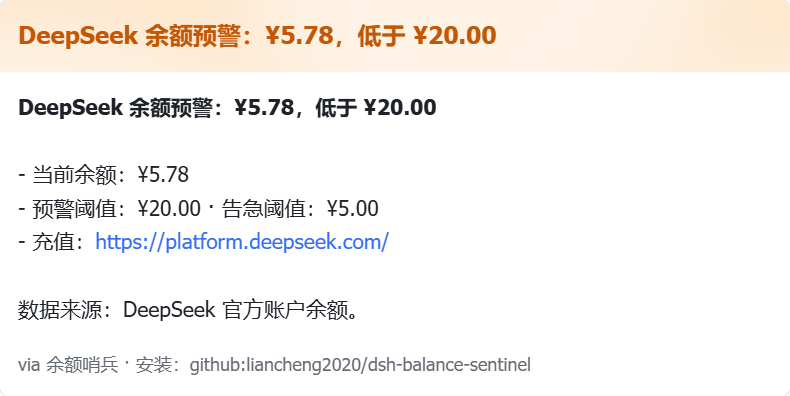
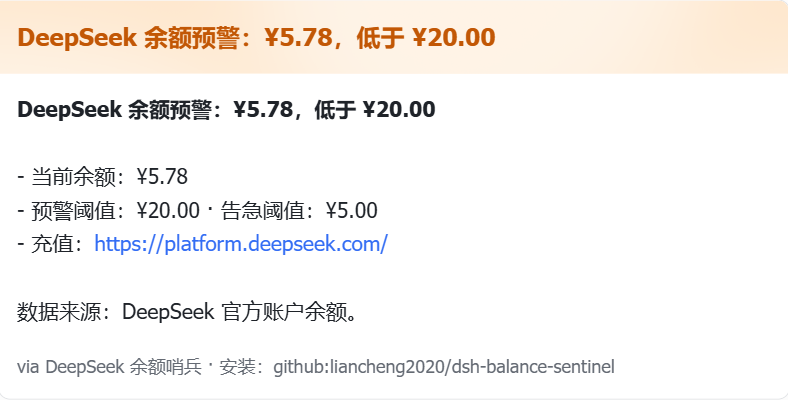
feat: 告警卡片与面板状态提示完善
签名补全 DeepSeek 前缀；状态提示改为顶部浮层，轮询不再覆盖编辑中的阈值草稿；自测补充对应用例，临时服务器关闭前断开 keep-alive 连接避免看门狗超时。

diff --git a/client.js b/client.js
@@ -7,11 +7,13 @@ window.__ModuleLoader__.load({
   factory(require) {
     const React = require('react')
     const h = React.createElement
-    const { useState, useEffect } = React
+    const { useState, useEffect, useRef } = React
 
     const LOCAL_API = 'http://127.0.0.1:17430'
     const REPO = 'https://github.com/liancheng2020/dsh-balance-sentinel'
     const TOP_UP = 'https://platform.deepseek.com/'
+    const RESULT_TTL = 3000 // confirmations fade; failures stay until the next action
+    const POLL_MS = 15000 // panel refresh; the bridge is loopback-only and cheap
     // Official "how to get a custom bot webhook" pages, shown next to the form.
     const BOT_DOC = {
       feishu: 'https://open.feishu.cn/document/client-docs/bot-v3/add-custom-bot',
@@ -186,14 +188,12 @@ window.__ModuleLoader__.load({
       btnPrimary: { fontSize: 12, padding: '6px 14px', borderRadius: 8, border: '1px solid rgba(91,140,255,0.45)', background: 'rgba(91,140,255,0.16)', color: T.brand, fontWeight: 600, cursor: 'pointer', display: 'inline-flex', alignItems: 'center', gap: 6, flex: 'none' },
       hero: { background: `linear-gradient(135deg, rgba(91,140,255,0.10), ${T.layer1} 60%)`, border: `1px solid ${T.border}`, borderRadius: 12, padding: '16px 18px', marginBottom: 14 },
       heroVal: { fontSize: 30, fontWeight: 700, lineHeight: 1.2 },
-      meta: { fontSize: 12, color: T.sub, margin: '2px 0' },
       metaDim: { fontSize: 11.5, color: T.tertiary, margin: '2px 0' },
       banner: { display: 'flex', alignItems: 'center', justifyContent: 'space-between', gap: 10, flexWrap: 'wrap', padding: '9px 12px', marginBottom: 14, borderRadius: 10, border: `1px solid ${T.borderSoft}`, borderLeft: `3px solid ${T.brand}`, background: 'rgba(91,140,255,0.10)' },
       bannerText: { fontSize: 12, color: T.sub },
       card: { background: T.layer1, border: `1px solid ${T.borderSoft}`, borderRadius: 10, padding: '12px 14px', marginBottom: 12 },
       row: { display: 'flex', justifyContent: 'space-between', alignItems: 'center', gap: 8, marginBottom: 6 },
       cardTitle: { fontWeight: 600, fontSize: 13, color: T.text, display: 'flex', alignItems: 'center', gap: 7 },
-      badge: (c) => ({ fontSize: 10.5, fontWeight: 600, padding: '2px 9px', borderRadius: 20, background: c, color: '#0e0e11', whiteSpace: 'nowrap', flex: 'none' }),
       badgeSoft: (c) => ({ fontSize: 10.5, fontWeight: 600, padding: '2px 9px', borderRadius: 20, color: c, border: `1px solid ${c}`, background: 'transparent', whiteSpace: 'nowrap', flex: 'none' }),
       field: { marginBottom: 9 },
       fieldLabel: { display: 'block', fontSize: 11.5, color: T.tertiary, marginBottom: 4 },
@@ -229,7 +229,9 @@ window.__ModuleLoader__.load({
     }
 
     const sym = (c) => (c === 'USD' ? '$' : '¥')
-    const levelColor = (l) => l === 'critical' ? T.error : l === 'warn' ? T.warn : T.success
+    // Critical uses a fixed red: some skins tint --dsw-alias-state-error-primary
+    // pink, which turned a real 告急 amount into a near-white number.
+    const levelColor = (l) => l === 'critical' ? '#ff4d4f' : l === 'warn' ? T.warn : T.success
     const fmtTime = (iso) => { if (!iso) return ''; try { return new Date(iso).toLocaleTimeString(LANG === 'en' ? 'en-US' : 'zh-CN', { hour12: false, timeZone: 'Asia/Shanghai' }) } catch { return String(iso) } }
 
     function SentinelPanel() {
@@ -241,7 +243,7 @@ window.__ModuleLoader__.load({
       const [editing, setEditing] = useState(false)
       const [form, setForm] = useState({ channel: 'wecom', url: '', secret: '' })
       const [busy, setBusy] = useState('')
-      const [result, setResult] = useState(null)
+      const [result, setResultState] = useState(null)
       const [offConfirm, setOffConfirm] = useState(false)
       const [warnDraft, setWarnDraft] = useState('')
       const [critDraft, setCritDraft] = useState('')
@@ -252,6 +254,18 @@ window.__ModuleLoader__.load({
         const id = setTimeout(() => setToast(null), 2000)
         return () => clearTimeout(id)
       }, [toast])
+
+      // Inline result: a confirmation ("saved") is noise a few seconds later, so it
+      // fades on its own; failures stay until the next action so they can be read.
+      // Every write goes through showResult, which also cancels a pending fade so a
+      // stale timer can never wipe a newer (possibly error) message.
+      const resultTimer = useRef(null)
+      useEffect(() => () => clearTimeout(resultTimer.current), [])
+      const showResult = (r) => {
+        clearTimeout(resultTimer.current)
+        resultTimer.current = r && r.ok ? setTimeout(() => setResultState(null), RESULT_TTL) : null
+        setResultState(r)
+      }
 
       useEffect(() => {
         const sheet = `
@@ -285,16 +299,29 @@ window.__ModuleLoader__.load({
         let cancelled = false
         let timer = null
         let attempt = 0
+        let seeded = false
+        let lastWarn = null
+        let lastCrit = null
         const load = async () => {
           try {
             const res = await fetch(LOCAL_API + '/status', { headers: { Accept: 'application/json' } })
             if (!res.ok) throw new Error('http ' + res.status)
             const j = await res.json()
             if (cancelled) return
+            attempt = 0
             setBridgeErr(''); setHost(j)
-            if (!j.configured) setEditing(true)
-            setWarnDraft(String(j.thresholds?.warn ?? 20))
-            setCritDraft(String(j.thresholds?.critical ?? 5))
+            // Auto-open the setup form once, not on every poll: a later refresh
+            // must not re-open it under a user who just closed it.
+            if (!seeded && !j.configured) setEditing(true)
+            seeded = true
+            const tw = String(j.thresholds?.warn ?? 20)
+            const tc = String(j.thresholds?.critical ?? 5)
+            // Only refresh a draft that still shows the value we last served, so a
+            // background poll never overwrites thresholds the user is editing.
+            setWarnDraft((prev) => (lastWarn === null || prev === lastWarn ? tw : prev))
+            setCritDraft((prev) => (lastCrit === null || prev === lastCrit ? tc : prev))
+            lastWarn = tw
+            lastCrit = tc
           } catch (e) {
             if (cancelled) return
             if (attempt < 2) { attempt++; timer = setTimeout(load, attempt * 500); return }
@@ -302,7 +329,21 @@ window.__ModuleLoader__.load({
           }
         }
         load()
-        return () => { cancelled = true; if (timer) clearTimeout(timer) }
+        // The panel is a live view: without this it keeps showing "pending" long
+        // after the monitor delivered the alert. Polls pause while hidden.
+        const tick = () => {
+          if (typeof document !== 'undefined' && document.visibilityState === 'hidden') return
+          load()
+        }
+        const id = setInterval(tick, POLL_MS)
+        const onVisible = () => { if (document.visibilityState !== 'hidden') load() }
+        if (typeof document !== 'undefined' && document.addEventListener) document.addEventListener('visibilitychange', onVisible)
+        return () => {
+          cancelled = true
+          if (timer) clearTimeout(timer)
+          clearInterval(id)
+          if (typeof document !== 'undefined' && document.removeEventListener) document.removeEventListener('visibilitychange', onVisible)
+        }
       }, [nonce, retry])
 
       const copyText = (text) => new Promise((resolve) => {
@@ -334,69 +375,73 @@ window.__ModuleLoader__.load({
       const refreshSoon = (ms = 400) => setTimeout(() => setNonce((n) => n + 1), ms)
 
       const testPush = async () => {
-        setBusy('test'); setResult(null)
+        setBusy('test'); showResult(null)
         try {
           const j = await post('/test-push')
-          setResult(j.ok
+          showResult(j.ok
             ? { ok: true, message: t('push.testOk', { c: j.channel || '', n: j.chunks || 1 }) }
             : { ok: false, message: j.message || j.error || '', hint: j.hint || '' })
-        } catch (e) { setResult({ ok: false, message: String(e?.message || e) }) }
+        } catch (e) { showResult({ ok: false, message: String(e?.message || e) }) }
         setBusy('')
       }
 
       const saveWebhook = async (thenTest) => {
-        setBusy('save'); setResult(null)
+        setBusy('save'); showResult(null)
         try {
           const j = await post('/webhook', form)
-          if (!j.ok) { setResult({ ok: false, message: j.message || '' }); return }
+          if (!j.ok) { showResult({ ok: false, message: j.message || '' }); return }
           setHost((prev) => ({ ...(prev || {}), channel: j.channel, configured: j.configured, urlHost: j.urlHost, secretSet: j.secretSet }))
           setEditing(false)
           setForm({ channel: j.channel, url: '', secret: '' })
           if (thenTest) { setBusy(''); return testPush() }
-          setResult({ ok: true, message: t('push.saved') })
+          showResult({ ok: true, message: t('push.saved') })
           refreshSoon()
-        } catch (e) { setResult({ ok: false, message: String(e?.message || e) }) }
+        } catch (e) { showResult({ ok: false, message: String(e?.message || e) }) }
         setBusy('')
       }
 
       const disablePush = async () => {
         if (!offConfirm) { setOffConfirm(true); return }
-        setOffConfirm(false); setBusy('save'); setResult(null)
+        setOffConfirm(false); setBusy('save'); showResult(null)
         try {
           const j = await post('/webhook', { channel: 'none' })
-          if (!j.ok) { setResult({ ok: false, message: j.message || '' }); return }
+          if (!j.ok) { showResult({ ok: false, message: j.message || '' }); return }
           setHost((prev) => ({ ...(prev || {}), channel: 'none', configured: false, urlHost: '', secretSet: false }))
           setEditing(false)
-          setResult({ ok: true, message: t('push.disabled') })
-        } catch (e) { setResult({ ok: false, message: String(e?.message || e) }) }
+          showResult({ ok: true, message: t('push.disabled') })
+        } catch (e) { showResult({ ok: false, message: String(e?.message || e) }) }
         setBusy('')
       }
 
       const savePrefs = async () => {
-        setBusy('prefs'); setResult(null)
+        setBusy('prefs'); showResult(null)
         try {
           const j = await post('/prefs', { warn: Number(warnDraft), critical: Number(critDraft) })
-          if (!j.ok) { setResult({ ok: false, message: j.message || t('th.bad'), scope: 'th' }); return }
+          if (!j.ok) { showResult({ ok: false, message: j.message || t('th.bad'), scope: 'th' }); return }
           setHost((prev) => (prev ? { ...prev, thresholds: j.thresholds } : prev))
-          setResult({ ok: true, message: t('th.saved'), scope: 'th' })
+          // Threshold saves confirm via the floating toast, so the card does not
+          // grow a line (and push the sections below) just to take it away again.
+          // Failures stay inline next to the inputs they refer to.
+          showResult(null)
+          setToast({ ok: true, title: t('th.saved'), n: Date.now() })
           refreshSoon(900)
-        } catch (e) { setResult({ ok: false, message: String(e?.message || e), scope: 'th' }) }
+        } catch (e) { showResult({ ok: false, message: String(e?.message || e), scope: 'th' }) }
         setBusy('')
       }
 
       const retryAlert = async () => {
-        setBusy('retry'); setResult(null)
+        setBusy('retry'); showResult(null)
         try {
           const j = await post('/alert/retry')
-          setResult(j.ok ? { ok: true, message: t('alert.retried') } : { ok: false, message: j.message || '' })
+          showResult(j.ok ? { ok: true, message: t('alert.retried') } : { ok: false, message: j.message || '' })
           refreshSoon()
-        } catch (e) { setResult({ ok: false, message: String(e?.message || e) }) }
+        } catch (e) { showResult({ ok: false, message: String(e?.message || e) }) }
         setBusy('')
       }
 
       const openForm = () => {
         setForm({ channel: host?.channel && host.channel !== 'none' ? host.channel : 'wecom', url: '', secret: '' })
-        setResult(null); setOffConfirm(false); setEditing(true)
+        showResult(null); setOffConfirm(false); setEditing(true)
       }
       const scrollToPush = () => setTimeout(() => {
         try { document.getElementById('sentinel-push')?.scrollIntoView({ behavior: 'smooth', block: 'start' }) } catch { /* noop */ }
@@ -468,7 +513,7 @@ window.__ModuleLoader__.load({
           })) : null,
         webhookHelp(),
         h('div', { style: { display: 'flex', gap: 8, flexWrap: 'wrap' } },
-          host?.configured ? h('button', { type: 'button', style: css.btn, disabled: !!busy, onClick: () => { setEditing(false); setOffConfirm(false); setResult(null) } }, t('push.cancel')) : null,
+          host?.configured ? h('button', { type: 'button', style: css.btn, disabled: !!busy, onClick: () => { setEditing(false); setOffConfirm(false); showResult(null) } }, t('push.cancel')) : null,
           host?.configured ? h('button', {
             type: 'button', disabled: !!busy,
             style: { ...css.btn, color: offConfirm ? T.error : T.sub, borderColor: offConfirm ? T.error : T.border },

diff --git a/lib/notify.js b/lib/notify.js
@@ -8,7 +8,7 @@ import { createHmac } from 'node:crypto'
 // One-line attribution appended to every push card, matching dsh-aihot-radar:
 // pushes land in shared IM groups, so each card doubles as a lightweight install
 // entry; on by default, removable via notify.signature: false.
-export const DEFAULT_SIGNATURE = 'via 余额哨兵 · 安装：github:liancheng2020/dsh-balance-sentinel'
+export const DEFAULT_SIGNATURE = 'via DeepSeek 余额哨兵 · 安装：github:liancheng2020/dsh-balance-sentinel'
 
 // Single source of truth for "can we actually push?" — the bridge and the
 // digest scheduler must agree, or the panel says "on" while nothing is sent.

diff --git a/CHANGELOG.md b/CHANGELOG.md
@@ -1,0 +1,42 @@
+# Changelog
+
+All notable changes to this project are documented here. Format follows
+[Keep a Changelog](https://keepachangelog.com/); versions follow [SemVer](https://semver.org/).
+
+## [0.1.0] - 2026-11-17
+
+首个发布版。仓库历史 `22bb4d1` → `df8396c` 对应本版本的全部内容；后续改动在下一版
+（`v0.2.0`）的标题下另起一节。
+
+### Added
+
+- **余额监控**：优先宿主内置账号服务（与官方「设置 → 账号与余额」同源，需已登录，免填 API Key）；老宿主回落 `DEEPSEEK_API_KEY` 或 `balance.apiKey`，两者都没有时面板给出明确原因，不静默失败。
+- **两级阈值告警**：默认低于 ¥20 推「预警」、低于 ¥5 推「告急」（账户币种，面板可改）；充值或调阈值回到预警之上推一条「恢复/解除」，真实充值有 10 分钟冷却防抖；免打扰时段顺延、出窗合并成一条。
+- **侧边栏面板**：余额与告警级别、阈值编辑、推送通道配置与测试推送、挂起告警的手动重试、桥接不可用时的降级说明与配置片段；中英双语，跟随宿主 locale。
+- **推送通道**：企微 / 钉钉（支持加签）/ 飞书（消息卡片）/ Bark / Server酱 / Telegram / 通用 Webhook；超长自动分条；HTTP 200 但业务失败同样判失败。
+- **配置框内帮助**：飞书／钉钉新增「如何获取机器人 Webhook」，含官方文档链接、三步取值路径与该通道适用的安全设置（飞书未实现签名校验，明确提示不要开启）。
+- **本地桥接**：`127.0.0.1:17430`，校验 Origin 与 `Sec-Fetch-Site`（放行宿主壳），`/status` 只回脱敏 host，不暴露 webhook url/secret。
+- **自测**：`scripts/selftest.mjs`（宿主状态机与投递）、`scripts/selftest-client.mjs`（面板渲染与交互）、`scripts/verify-dedup.mjs`（双进程去重）、`scripts/verify-market.mjs`（上架素材），纯 node、零依赖。
+- **面板实时刷新**：每 15 秒轮询一次本地桥接（页面隐藏时暂停、切回立即刷新一次），发送完成后「有一条告警待发送」会自行消失，桥接恢复后也不再需要手点刷新。
+- **上架素材**：`assets/icon-180.png`、飞书告警卡片与面板截图、`screenshots.json` 走 GitHub 托管地址。
+
+### Fixed
+
+- **送达不确定不再自动重发**：超时、响应正文中断、请求中途断连都记为「送达不确定」，立即挂起，不在退避后自动补发（宁漏一条，也不让群里收到两条）。
+- **状态保存失败也不重复**：`state.json` 写入失败时落盘备用回执，下一轮、重启或其他实例据此恢复；已发送的跃迁视为送达，「送达不确定」恢复为挂起＋未确认，绝不标记成功。状态与回执都无法落盘时明确告警「去重无法保证」。
+- **多实例（桌面 + Web 共用 `DSH_HOME`）不重复推送**：整周期锁覆盖「读状态 → 判重 → 发送 → 写状态」，带心跳续期与过期接管互斥，丢失锁的一方拒绝写入。
+- **面板写入不再覆盖在途状态**：监控周期内手动重试返回 busy，首次接通补发在锁内不排队；保存按字段认领，避免用旧快照覆盖其他实例的告警状态。
+- **响应正文超时不再算可重试**：HTTP 200 但正文未读完时按「送达不确定」处理。
+- **飞书「解除」通知使用绿色卡片**，与预警／恢复配色一致。
+- `state.json` 损坏时自动备份并回落默认值，不再导致启动失败。
+
+### Changed
+
+- 推送尾注默认带一行安装入口，并改用「DeepSeek 余额哨兵」并列名，让被转发到群里的卡片能自解释（`notify.signature: false` 可关，`signatureText` 可换文案）。
+- 阈值保存的确认改为面板顶部浮层（与 AIHOT 雷达同款 toast，2 秒消失），不再在卡片里插一行绿字把下面的内容顶下去；推送保存/测试的确认仍为内联提示（3 秒淡出）。错误提示一律保留到下一次操作，避免被静默吞掉。
+- 告急金额改用固定红色 `#ff4d4f`：部分皮肤会把 `--dsw-alias-state-error-primary` 染成粉色，导致真正的告急数字看起来接近白色。
+- 轮询刷新不会覆盖正在编辑的阈值草稿，也不会在用户关掉表单后再次自动展开。
+- README 面板截图前置、补「先看三行」要点；适用范围与免 Key 边界并入安装节，不再单列小节。
+- GitHub About 描述收紧为一句：低余额推送 + 本机运行边界。
+
+[0.1.0]: https://github.com/liancheng2020/dsh-balance-sentinel/releases/tag/v0.1.0

diff --git a/README.en.md b/README.en.md
@@ -1,4 +1,4 @@
-# dsh-balance-sentinel ｜ Balance Sentinel
+# dsh-balance-sentinel ｜ Balance Sentinel · DeepSeek balance alerts
 
 [中文](README.md) | [English](README.en.md)
 
@@ -12,7 +12,7 @@
 **DeepSeek balance running low? Get alerted in Feishu / DingTalk automatically.** Background monitoring that comes to you; **no API key to paste** on hosts with the built-in account service (sign-in required).
 
 > **Three lines first**
-> - Local DSH Desktop / local web host, **monitored only while DSH runs**; no remote web panel
+> - **Monitored while DSH runs**, stops when it exits; no remote web panel
 > - Low balance pushes to Feishu / DingTalk; a top-up or threshold change sends one "recovered"/"resolved"
 > - Paste a webhook in the panel → **Save and send test**; effective on save, one restart after install
 
@@ -37,11 +37,9 @@ dsh plugin --profile web add https://github.com/liancheng2020/dsh-balance-sentin
 
 Desktop app: Settings → Plugins → add `dsh-balance-sentinel`. Restart DSH once.
 
-## Support boundary
+**Where it runs**: local DSH desktop or local web host only — monitoring lives in the DSH process and **stops when DSH exits** (reopening resumes from the local state file); **no remote web panel** (the bridge binds `127.0.0.1:17430` and only accepts pages from this machine). **No key** requires the host account service with a signed-in account (no key ≠ no account); otherwise use `DEEPSEEK_API_KEY` or `balance.apiKey` — with neither, the panel states the exact reason.
 
-- **Local DSH Desktop / local web host**: monitoring runs inside the DSH process — quit DSH and it stops; reopening resumes from the local state file.
-- **No remote web panel**: the panel uses the loopback bridge on `127.0.0.1:17430`, which only accepts pages from this machine.
-- **No key needs the host account service and a signed-in DeepSeek account** (no key ≠ no account); otherwise use `DEEPSEEK_API_KEY` or `balance.apiKey` — with neither, the panel states the exact reason.
+> Current version `0.1.0` (see [CHANGELOG](CHANGELOG.md)).
 
 ## First use (two steps)
 
@@ -74,7 +72,7 @@ If the balance is already below a threshold when you connect, one current-state 
       quiet: { start: "", end: "" }  # e.g. "23:00"–"08:00"
       apiKey: ""                   # fallback for older hosts only
     notify:
-      signature: true              # "via 余额哨兵 · install: github:…" line, opt-out
+      signature: true              # "via DeepSeek 余额哨兵 · install: github:…" line, opt-out
       signatureText: ""
     localApi:
       enabled: true                # panel bridge on 127.0.0.1:17430

diff --git a/README.md b/README.md
@@ -1,4 +1,4 @@
-# dsh-balance-sentinel ｜ 余额哨兵
+# dsh-balance-sentinel ｜ 余额哨兵 · DeepSeek 余额告警
 
 [中文](README.md) | [English](README.en.md)
 
@@ -12,7 +12,7 @@
 **DeepSeek 余额不足，自动提醒到飞书／钉钉等 IM。** 后台监控、主动来找你；带官方账号服务的宿主**免填 API Key**（需已登录）。
 
 > **先看三行**
-> - 本机 DSH Desktop／本机 Web，**DSH 运行期间才监控**；不支持远程 Web 面板
+> - **DSH 运行期间监控**，关闭即停；不支持远程 Web 面板
 > - 余额低于阈值自动推送到飞书／钉钉，充值或调阈值后推一条「恢复/解除」
 > - 面板里粘 webhook → **保存并发送测试**，保存即生效；装完只需重启一次
 
@@ -37,11 +37,9 @@ dsh plugin --profile web add https://github.com/liancheng2020/dsh-balance-sentin
 
 桌面端：设置 → 插件 → 添加插件，填 `dsh-balance-sentinel`。装完重启一次 DSH。
 
-## 支持范围
+**适用环境**：仅本机 DSH Desktop／本机 Web，监控跑在 DSH 进程里、**退出即停**（重开从本机状态继续）；**不支持远程 Web 面板**（桥接只绑 `127.0.0.1:17430`，只接受本机页面）。**免 Key** 需宿主内置账号服务且已登录（免 Key ≠ 无需账户），否则用 `DEEPSEEK_API_KEY` 或 `balance.apiKey`，都没有时面板给出明确原因。
 
-- **本机 DSH Desktop／本机 Web**：监控跑在 DSH 进程里，退出即停，重开从本机状态继续。
-- **不支持远程 Web 面板**：面板走 `127.0.0.1:17430` 本地桥接，只接受本机页面。
-- **免 Key 需宿主内置账号服务且已登录** DeepSeek 账户（免 Key ≠ 无需账户）；否则用 `DEEPSEEK_API_KEY` 或 `balance.apiKey`，都没有时面板给出明确原因。
+> 当前版本 `0.1.0`（见 [CHANGELOG](CHANGELOG.md)）。
 
 ## 首次使用（两步接通）
 
@@ -74,7 +72,7 @@ dsh plugin --profile web add https://github.com/liancheng2020/dsh-balance-sentin
       quiet: { start: "", end: "" }  # 免打扰，如 "23:00"–"08:00"
       apiKey: ""                   # 仅老宿主回落用；优先宿主账号/环境变量
     notify:
-      signature: true              # 推送尾部署名「via 余额哨兵 · 安装：github:…」，可关
+      signature: true              # 推送尾部署名「via DeepSeek 余额哨兵 · 安装：github:…」，可关
       signatureText: ""
     localApi:
       enabled: true                # 面板桥接 127.0.0.1:17430，可关
